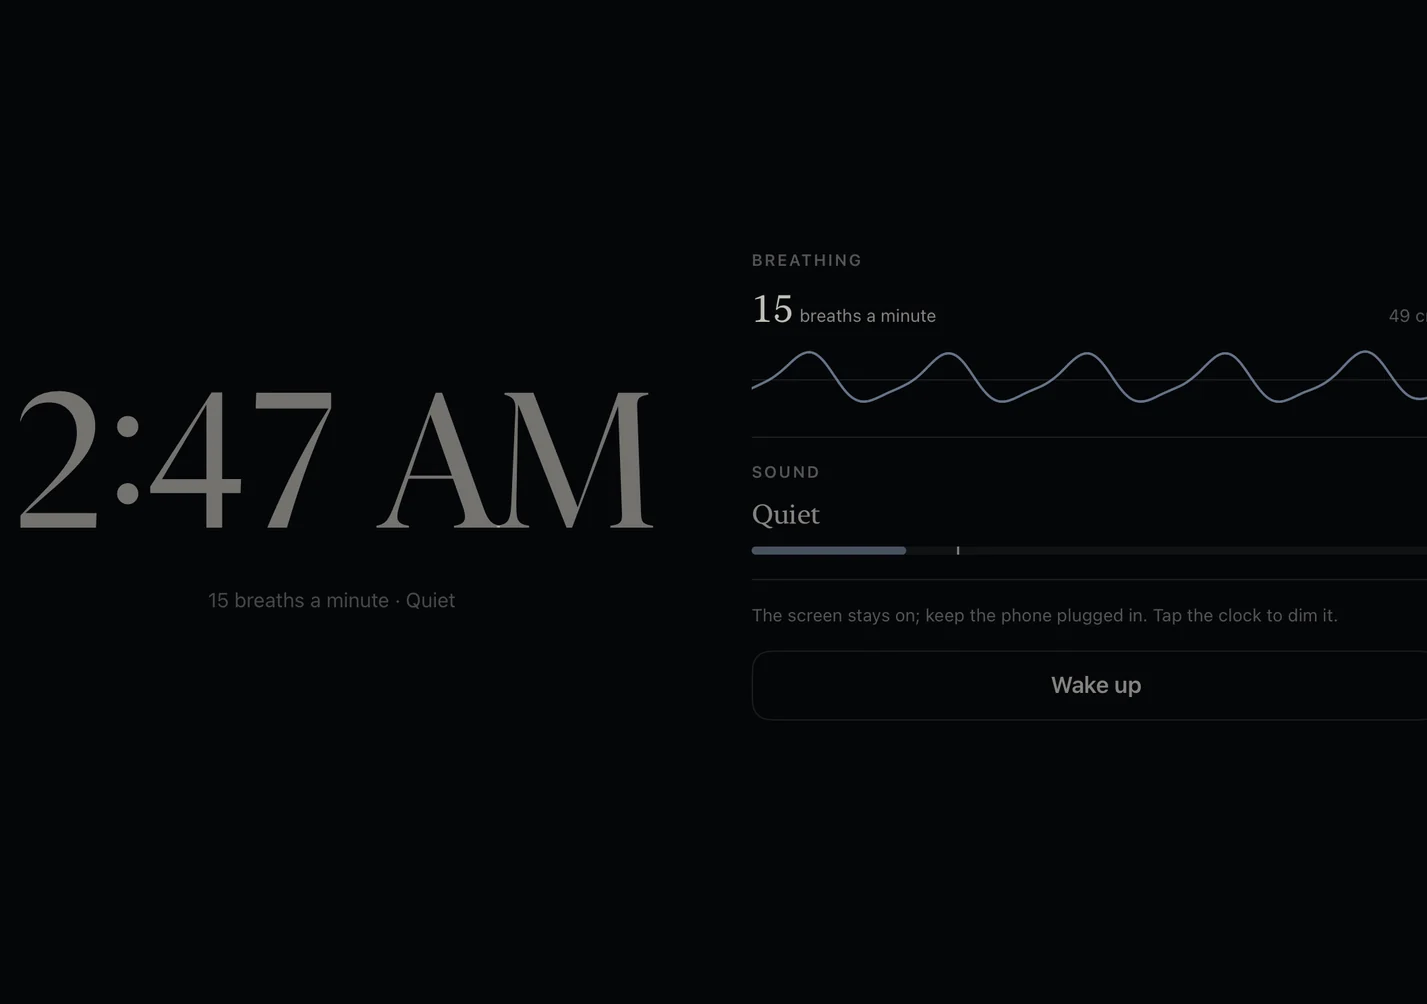
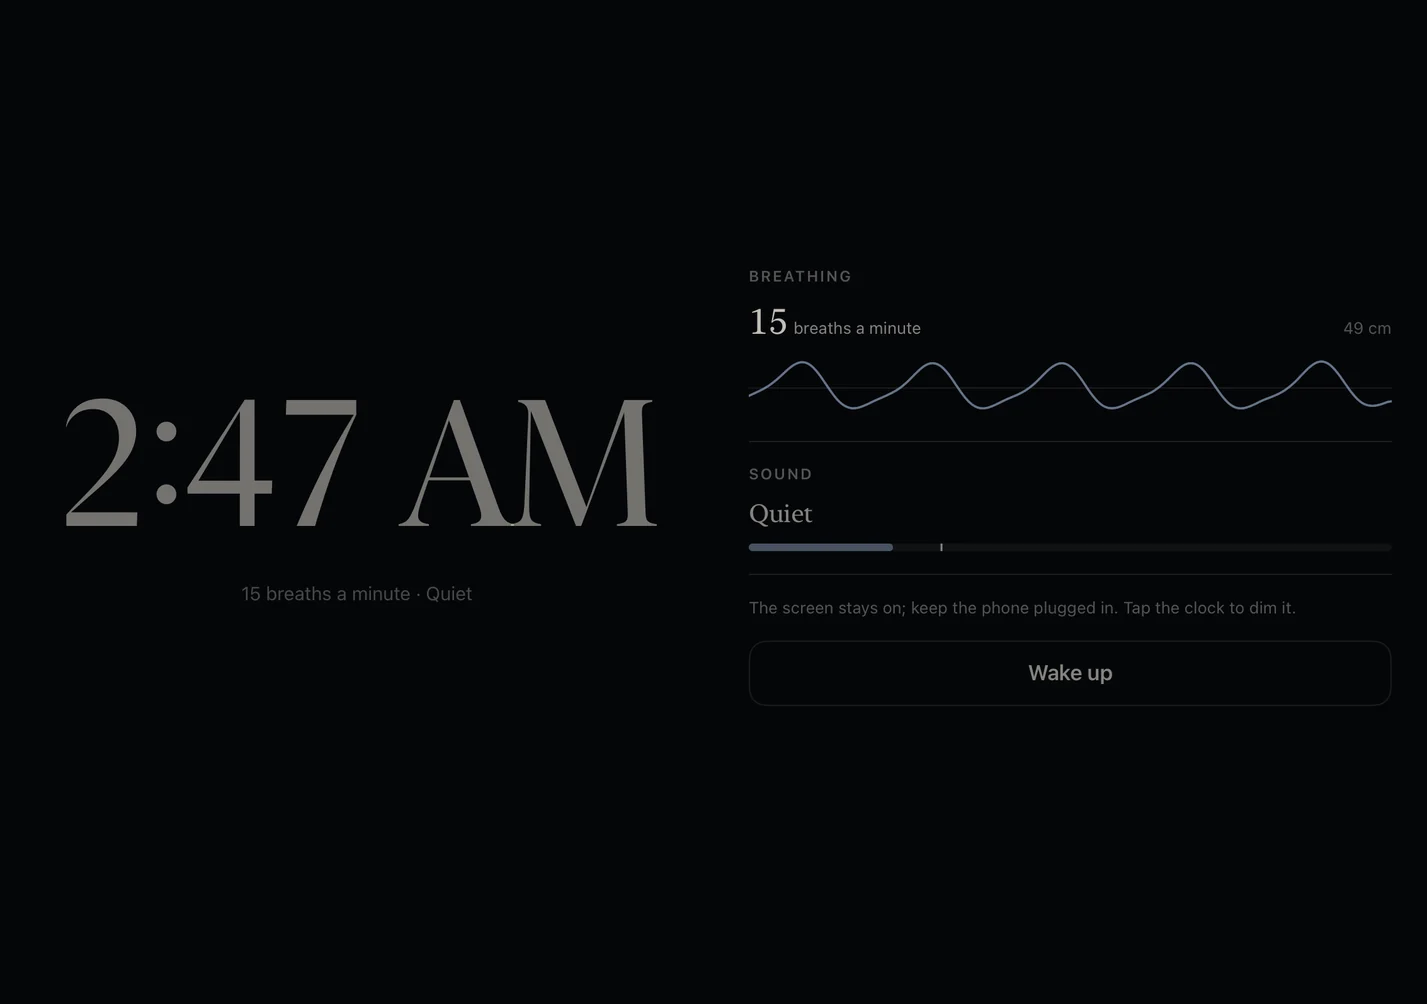
Sleep Sonar: Duo inner-screen images letterboxed instead of cropped

diff --git a/sleepsonar/index.html b/sleepsonar/index.html
@@ -192,15 +192,15 @@
           <li>
             <figure>
               <div class="duo-book">
-                <div class="duo-half duo-half-left"><img src="../assets/img/sleepsonar/duo/book-light.webp?v=d210abbe" data-light="../assets/img/sleepsonar/duo/book-light.webp?v=d210abbe" data-dark="../assets/img/sleepsonar/duo/book-light.webp?v=d210abbe" width="1427" height="1004" alt="Sleep Sonar on the half-open iPhone Duo: a large dim clock on the left page, the breathing wave and sound level on the right." loading="lazy" decoding="async"></div>
-                <div class="duo-half duo-half-right"><img src="../assets/img/sleepsonar/duo/book-light.webp?v=d210abbe" data-light="../assets/img/sleepsonar/duo/book-light.webp?v=d210abbe" data-dark="../assets/img/sleepsonar/duo/book-light.webp?v=d210abbe" width="1427" height="1004" alt="" loading="lazy" decoding="async"></div>
+                <div class="duo-half duo-half-left"><img src="../assets/img/sleepsonar/duo/book-light.webp?v=110b5145" data-light="../assets/img/sleepsonar/duo/book-light.webp?v=110b5145" data-dark="../assets/img/sleepsonar/duo/book-light.webp?v=110b5145" width="1427" height="1004" alt="Sleep Sonar on the half-open iPhone Duo: a large dim clock on the left page, the breathing wave and sound level on the right." loading="lazy" decoding="async"></div>
+                <div class="duo-half duo-half-right"><img src="../assets/img/sleepsonar/duo/book-light.webp?v=110b5145" data-light="../assets/img/sleepsonar/duo/book-light.webp?v=110b5145" data-dark="../assets/img/sleepsonar/duo/book-light.webp?v=110b5145" width="1427" height="1004" alt="" loading="lazy" decoding="async"></div>
               </div>
               <figcaption><strong>Half open</strong> A dim clock on one page, your breathing and the night&#x27;s sounds on the other.</figcaption>
             </figure>
           </li>
           <li>
             <figure>
-              <div class="duo-flat"><img src="../assets/img/sleepsonar/duo/report-light.webp?v=880767fe" data-light="../assets/img/sleepsonar/duo/report-light.webp?v=880767fe" data-dark="../assets/img/sleepsonar/duo/report-light.webp?v=880767fe" width="1427" height="1004" alt="Sleep Sonar&#x27;s night report on the open iPhone Duo: 76 minutes of snoring, 3 sleep-talk moments, 15 breaths a minute, and the night&#x27;s timeline." loading="lazy" decoding="async"></div>
+              <div class="duo-flat"><img src="../assets/img/sleepsonar/duo/report-light.webp?v=7b7bfc9a" data-light="../assets/img/sleepsonar/duo/report-light.webp?v=7b7bfc9a" data-dark="../assets/img/sleepsonar/duo/report-light.webp?v=7b7bfc9a" width="1427" height="1004" alt="Sleep Sonar&#x27;s night report on the open iPhone Duo: 76 minutes of snoring, 3 sleep-talk moments, 15 breaths a minute, and the night&#x27;s timeline." loading="lazy" decoding="async"></div>
               <figcaption><strong>Open</strong> In the morning, the whole night on one page.</figcaption>
             </figure>
           </li>
